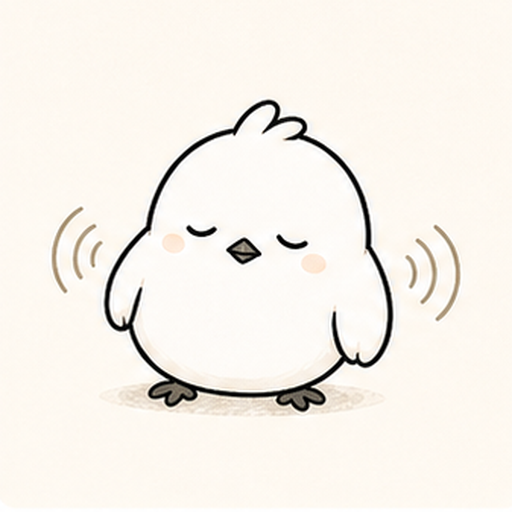
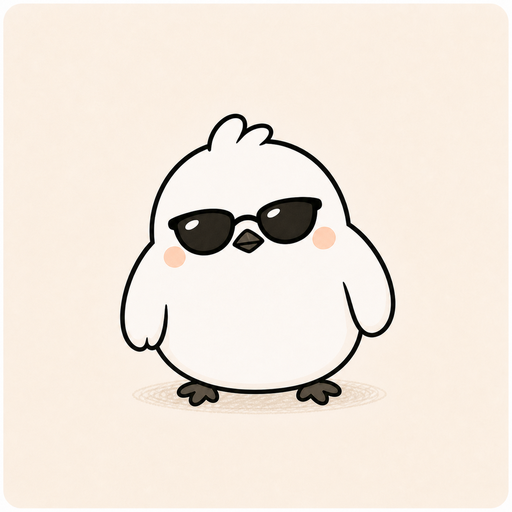
Make m7 action wear sunglasses

Changed region(s): [[0.0938, 0.1875, 0.9062, 0.8125], [0.125, 0.4062, 0.1562, 0.4375]]

diff --git a/app/index.html b/app/index.html
@@ -4,7 +4,7 @@
     <meta charset="utf-8">
     <meta name="viewport" content="width=device-width, initial-scale=1">
     <title>Codori MVP</title>
-    <link rel="stylesheet" href="./styles.css?v=20260530-m75-lookback-v3">
+    <link rel="stylesheet" href="./styles.css?v=20260530-m7-sunglasses-v3">
   </head>
   <body>
     <main class="app-shell">
@@ -221,6 +221,6 @@
       </section>
     </main>
 
-    <script src="./main.js?v=20260530-m75-lookback-v3"></script>
+    <script src="./main.js?v=20260530-m7-sunglasses-v3"></script>
   </body>
 </html>

diff --git a/app/main.js b/app/main.js
@@ -96,7 +96,7 @@ const ONE_POINT_ACCENTS = {
   },
   m7: {
     slug: "m7",
-    title: "余韻の輪",
+    title: "グラサンの余韻",
     asset: "assets/app/accents/imagegen-v1/m7.png"
   },
   maj7: {

diff --git a/docs/ja/core/chord-family-bird-mapping-policy.md b/docs/ja/core/chord-family-bird-mapping-policy.md
@@ -142,7 +142,7 @@ assets/approved/characters/add9.png
 | minor | Cm, Dm, Am | 文鳥 | 切ない、内向き、寄り添い |
 | 7 | C7, G7, A7 | カラス | いたずら、前へ進みたがる、ブルージー |
 | M7 / maj7 | CM7, Cmaj7 | 白鳥 | 透明感、上品、おしゃれ |
-| m7 | Cm7, Am7 | 夜雀 | 夜、余韻、エモい |
+| m7 | Cm7, Am7 | 白い鳥のグラサン | 夜、余韻、エモい、クール |
 | mM7 | CmM7, Cm(maj7) | 白い鳥の不気味な笑み | サスペンス、犯人の含み笑い、過酷な運命 |
 | sus4 | Csus4, Gsus4 | ペンギン | 浮遊、未解決、まだ着地しない |
 | add9 | Cadd9, Dadd9 | 青い小鳥 | きらきら、青春、空気感 |
@@ -155,8 +155,8 @@ assets/approved/characters/add9.png
 
 ## 3. 将来追加する鳥種のデザイン
 
-`m7`、`maj7`、`mM7`、`sus4`、`m7-5` は、まだ正式デザイン未作成。
-追加時に、既存4鳥と並べて区別できるかを確認してから採用する。
+`m7`、`maj7`、`mM7`、`sus4`、`m7-5` は、白い鳥のアクション違いとして本番候補を作成済み。
+追加・差し替え時は、既存4種類と並べて区別できるかを確認してから採用する。
 
 ---
 
@@ -190,20 +190,19 @@ docs/ja/characters/chord-expression-and-key-color-policy.md
 
 ## m7
 
-2026-05-23時点では、アプリ確認用に仮実装済み。
+2026-05-30時点では、白い鳥のグラサンアクションとして本番候補へ反映済み。
 
 ```text
-Am7 / Dm7 / Em7
+Cm7 / Am7 / Dm7 / Em7 など、m7ファミリー全体
 ```
 
-仮キャラクター：
+採用アクション：
 
 ```text
-assets/app/characters/provisional/m7-night-sparrow.svg
+assets/app/characters/action-candidate-integrated-v3/action-m7.png
 ```
 
-これは正式採用画像ではない。
-正式m7鳥は、別途画像生成・レビュー後に`assets/approved/characters/`へ移す。
+キー違いは、同じアクションの色違いとして扱う。
 
 役割：
 

diff --git a/docs/ja/characters/white-bird-one-point-accent-system.md b/docs/ja/characters/white-bird-one-point-accent-system.md
@@ -41,7 +41,7 @@
 | minor | 悲しい顔で羽を寄せる | 割れたハート | 悲しさ、少し胸が痛む感じ | 顔の横 |
 | 7 | 胸を張る | 小さなキラッ | ドヤっと決まる、少しにやっとする | 顔の横 |
 | add9 | うつろに上を見る | 水色の小さな星 | 空気が抜ける、軽さ | 目線の先 |
-| m7 | 力を抜く | やわらかい小さな輪 | 余韻、ほどける | 足元横 |
+| m7 | グラサンでゆるく立つ | 黒いサングラス | 余韻、ほどける、クール | 目元 |
 | maj7 | 遠くを見る | 透明な小ダイヤ | 透明感、上品さ | 視線の先 |
 | mM7 | 不気味に笑う | 稲妻または鋭い小片 | サスペンス、犯人の含み笑い、過酷な運命 | 背後または右上 |
 | sus4 | 片足を浮かせる | 浮いた小点 | 未解決、まだ着地しない | 浮いた足の下 |
@@ -67,7 +67,7 @@
 
 要確認：
 
-- m7の輪とmaj7の小ダイヤが、96pxで十分に違って見えるか。
+- m7のグラサンとmaj7の小ダイヤが、96pxで十分に違って見えるか。
 - m7-5の頬のバッテン傷が、96pxで傷として読めるか。
 - dimのコウモリ羽とmM7の稲妻が、96pxで別の印象として読めるか。
 

diff --git a/docs/ja/core/white-bird-action-system.md b/docs/ja/core/white-bird-action-system.md
@@ -47,7 +47,7 @@ Codoriの本番方針は以下です。
 | minor | そっと寄り添う | 羽を少し内側に寄せる | 内向きの小さな三日月 | 泣き顔、暗すぎる顔 |
 | 7 | 次へ誘う | 片羽を少し上げる、前向き | 小さな矢印または山形 | 怒り顔、悪役顔 |
 | add9 | きらっと見上げる | 少し上を向く、軽く伸びる | 一粒のきらめき | 光を盛りすぎる |
-| m7 | 夜にほどける | 力を抜いて座る/立つ | やわらかい小さな輪 | 黒鳥化、眠りすぎ |
+| m7 | グラサンでゆるく立つ | 黒いサングラス、力を抜く | グラサン | 黒鳥化、眠りすぎ、怖い不良化 |
 | maj7 | 透明にたたずむ | 背筋を少し伸ばす、静かに遠くを見る | 透明な小ダイヤ | 白鳥化、首を長くする |
 | mM7 | 不気味に笑う | 目を細めた含み笑い、静かな張りつめ | 稲妻または鋭い小片 | 黒鳥化、怖すぎるホラー化 |
 | sus4 | まだ待っている | 片足または体を少し浮かせる | 浮いた小点 | 不安顔にしすぎる |

diff --git a/docs/ja/characters/pre-line-chord-action-completion-plan.md b/docs/ja/characters/pre-line-chord-action-completion-plan.md
@@ -45,7 +45,7 @@ Step 5: LINEスタンプ派生
 | 1 | minor | そっと寄り添う | v2確認済み |
 | 1 | 7 | 次へ誘う | v2確認済み |
 | 1 | add9 | きらっと見上げる | v2確認済み |
-| 2 | m7 | 夜にほどける | v2確認済み |
+| 2 | m7 | グラサンでゆるく立つ | v3でグラサンへ更新 |
 | 2 | maj7 | 透明にたたずむ | v2確認済み |
 | 2 | mM7 | 宿命を見つめる | v2確認済み、要微調整 |
 | 2 | sus4 | まだ待っている | v2確認済み |
@@ -56,7 +56,7 @@ Step 5: LINEスタンプ派生
 ## Step 2の制作方針
 
 ```text
-m7   = 力が抜ける。minorよりやわらかく、眠りすぎない。
+m7   = グラサンでゆるく立つ。minorよりクールにほどけるが、怖い不良にはしない。
 maj7 = 静かに遠くを見る。add9より落ち着き、白鳥化しない。
 mM7  = 過酷な運命を見つめる。黒鳥化せず、静かな覚悟で出す。
 sus4 = まだ待っている。片足または体を少し浮かせ、保留感を出す。

diff --git a/docs/ja/characters/white-bird-action-production-brief.md b/docs/ja/characters/white-bird-action-production-brief.md
@@ -26,7 +26,7 @@ docs/ja/core/white-bird-action-system.md
 LINE展開の前に、他のコード種類も先に完成させる。
 
 ```text
-5. m7 / 夜にほどける
+5. m7 / グラサンでゆるく立つ
 6. maj7 / 透明にたたずむ
 7. mM7 / 宿命を見つめる
 8. sus4 / まだ待っている
@@ -62,7 +62,7 @@ docs/ja/characters/pre-line-chord-action-completion-plan.md
 
 | コード種類 | アクション | 画像で出す差 |
 |---|---|---|
-| m7 | 夜にほどける | 半目寄り、力を抜く、minorよりやわらかい |
+| m7 | グラサンでゆるく立つ | 黒いサングラス、力を抜く、minorよりクール |
 | maj7 | 透明にたたずむ | 静かに遠くを見る、背筋を少し伸ばす |
 | mM7 | 宿命を見つめる | 影のある目、静かな覚悟、黒鳥化しない |
 | sus4 | まだ待っている | 片足または体を少し浮かせる、保留感 |

diff --git a/docs/ja/core/code-bird-character-guide.md b/docs/ja/core/code-bird-character-guide.md
@@ -57,7 +57,7 @@ docs/ja/core/white-bird-action-system.md
 | 7 | C7, G7, A7 | 次へ誘う | いたずら、前へ進みたがる、ブルージー |
 | add9 | Cadd9, Dadd9 | きらっと見上げる | きらきら、青春、空気感 |
 | M7 / maj7 | CM7, Cmaj7 | 透明にたたずむ | 透明感、上品、おしゃれ |
-| m7 | Cm7, Am7 | 夜にほどける | 夜、余韻、エモい |
+| m7 | Cm7, Am7 | グラサンでゆるく立つ | 夜、余韻、エモい、クール |
 | mM7 | CmM7, Cm(maj7) | 不気味に笑う | サスペンス、犯人の含み笑い、過酷な運命 |
 | sus4 | Csus4, Gsus4 | まだ待っている | 浮遊、未解決、まだ着地しない |
 | m7-5 | Cm7-5, Bm7-5 | 振り向きざまにちらっと見る | 頬のバッテン傷、ニヒル、不安定 |
